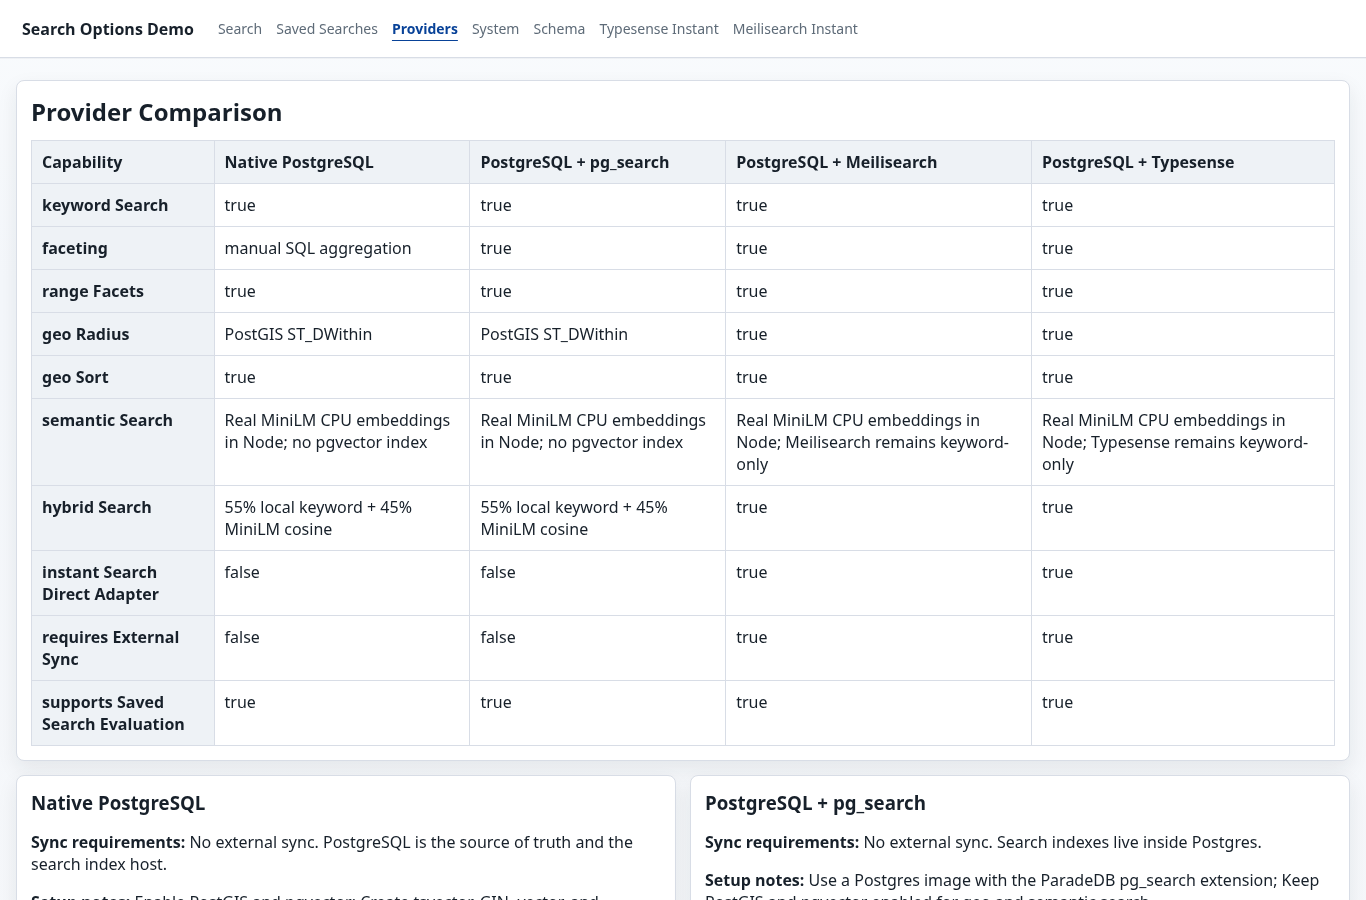
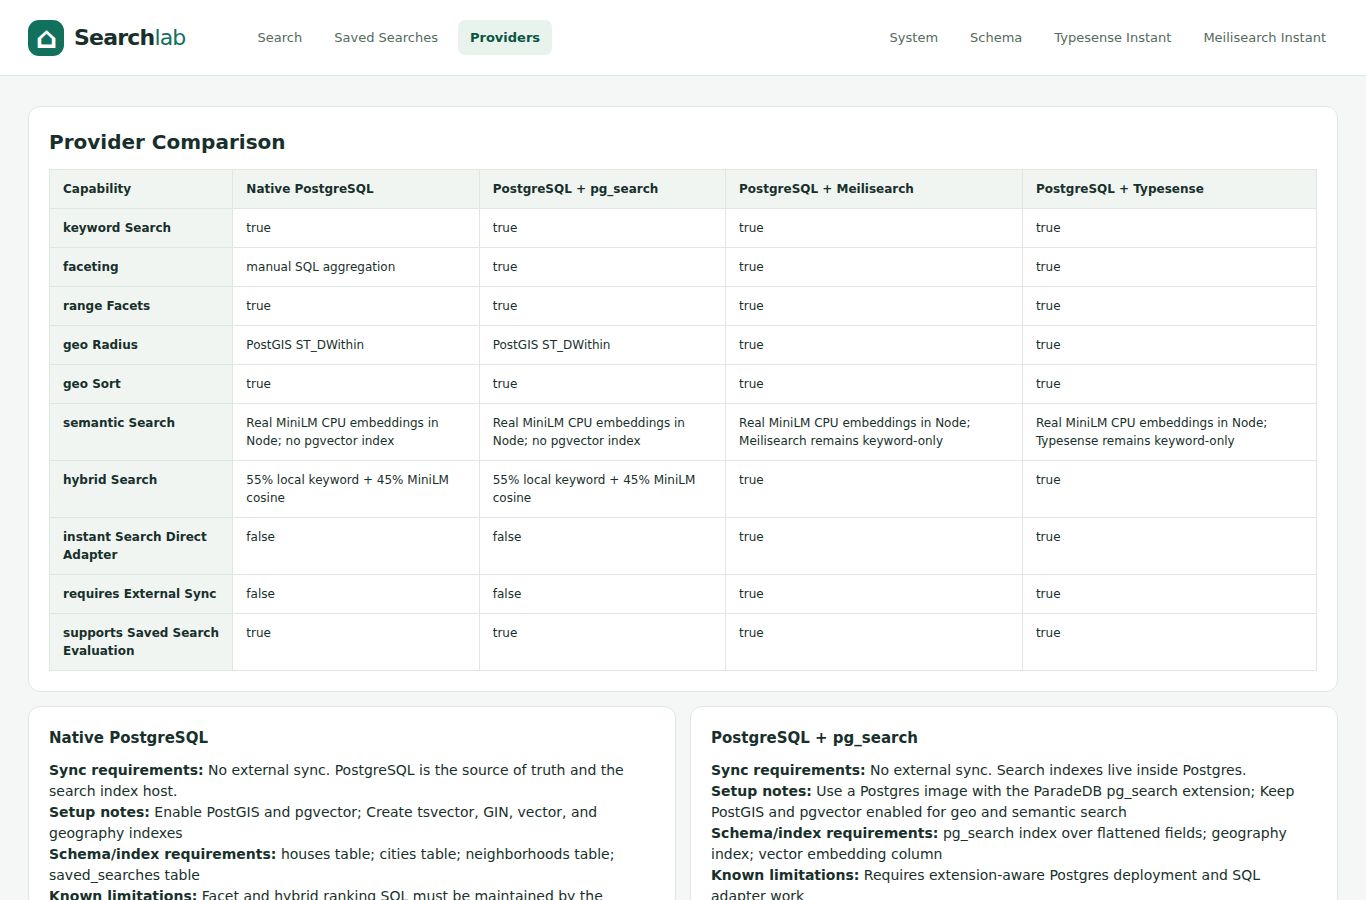
Publish verified CI screenshots and before-after visual evidence

diff --git a/docs/visual-refresh.md b/docs/visual-refresh.md
@@ -26,4 +26,32 @@ The suggestions capture verifies both input and dropdown bounding boxes are with
 
 ## Verification
 
-The 32 local browser regressions passed after the redesign, including explicit tile-failure and suggestions/input visibility checks. Independent desktop, suggestions and 390px mobile visual review passed, including a contrast repair verified from computed styles. Exact-head CI and final full-size screenshot review are still pending. Standalone Chromium in the dot cloud workspace cannot reach the OSM tile endpoint (`ERR_CONNECTION_REFUSED`); the supported interactive browser loaded and visually confirmed 9/9 real tiles. The strict screenshot gate correctly fails this environment rather than publishing a gray map. Real-service appliance happy-path testing remains explicitly excluded from the local test gate, not counted as passed.
[1 lines of base64/hex data omitted]
+
+Independent desktop, suggestions, 390px mobile, keyboard and contrast review passed. The contrast regression reads computed foreground/background colors. The map-failure test aborts tile requests and requires a visible honest error while listings and markers remain usable.
+
+Standalone Chromium in the dot cloud workspace could not reach OSM (`ERR_CONNECTION_REFUSED`), and strict capture correctly failed there. The supported interactive browser independently loaded 9/9 genuine tiles. A later local terminal-history rerun was denied and not retried; exact-head CI provides the final test/capture evidence. No security flags, user-agent spoofing or alternate access route were used.
+
+Real-service appliance happy-path testing remains explicitly excluded from the local gate, not counted as passed.
+
+## Before and after
+
+### Search results
+Before:
+![Previous search results](screenshots/before/search-results.png)
+After:
+![Redesigned search results with loaded map](screenshots/search-results.png)
+
+### Suggestions
+Before:
+![Previous suggestions crop](screenshots/before/search-suggestions.png)
+After:
+![Suggestions with the search input visible](screenshots/search-suggestions.png)
+
+### Mobile
+Before:
+![Previous mobile search](screenshots/before/mobile-search.png)
+After:
+![Redesigned mobile search](screenshots/mobile-search.png)
+
+Additional captures: [System](screenshots/system-status.png), [Schema](screenshots/schema-explorer.png), [Providers](screenshots/provider-comparison.png), [Listing details](screenshots/hit-details.png), [Saved search scope](screenshots/saved-search-scope.png).
